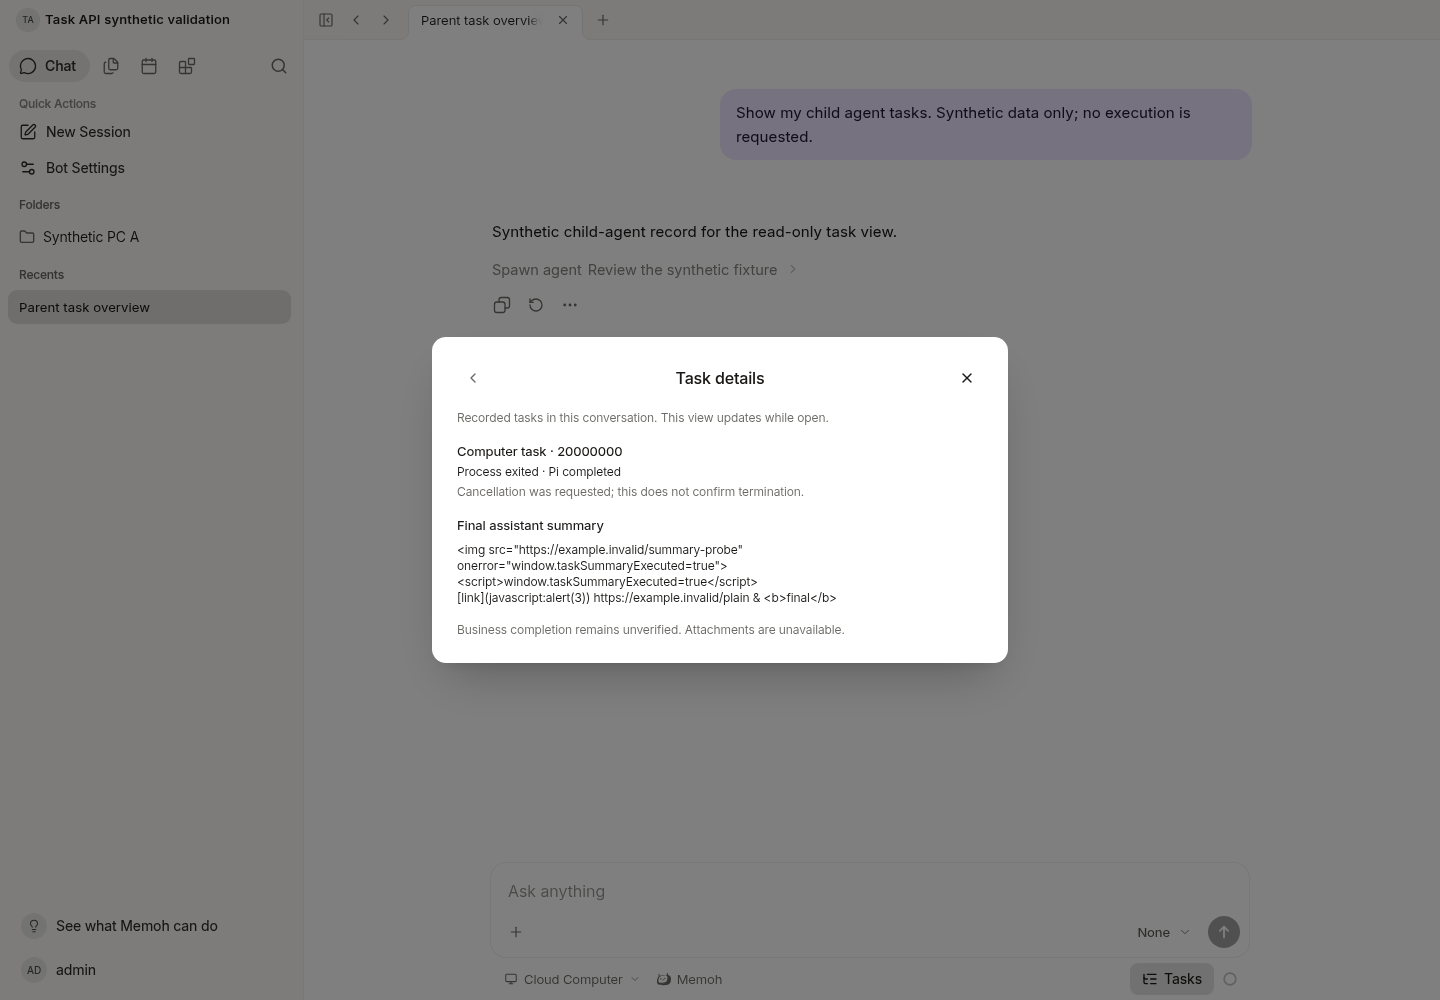
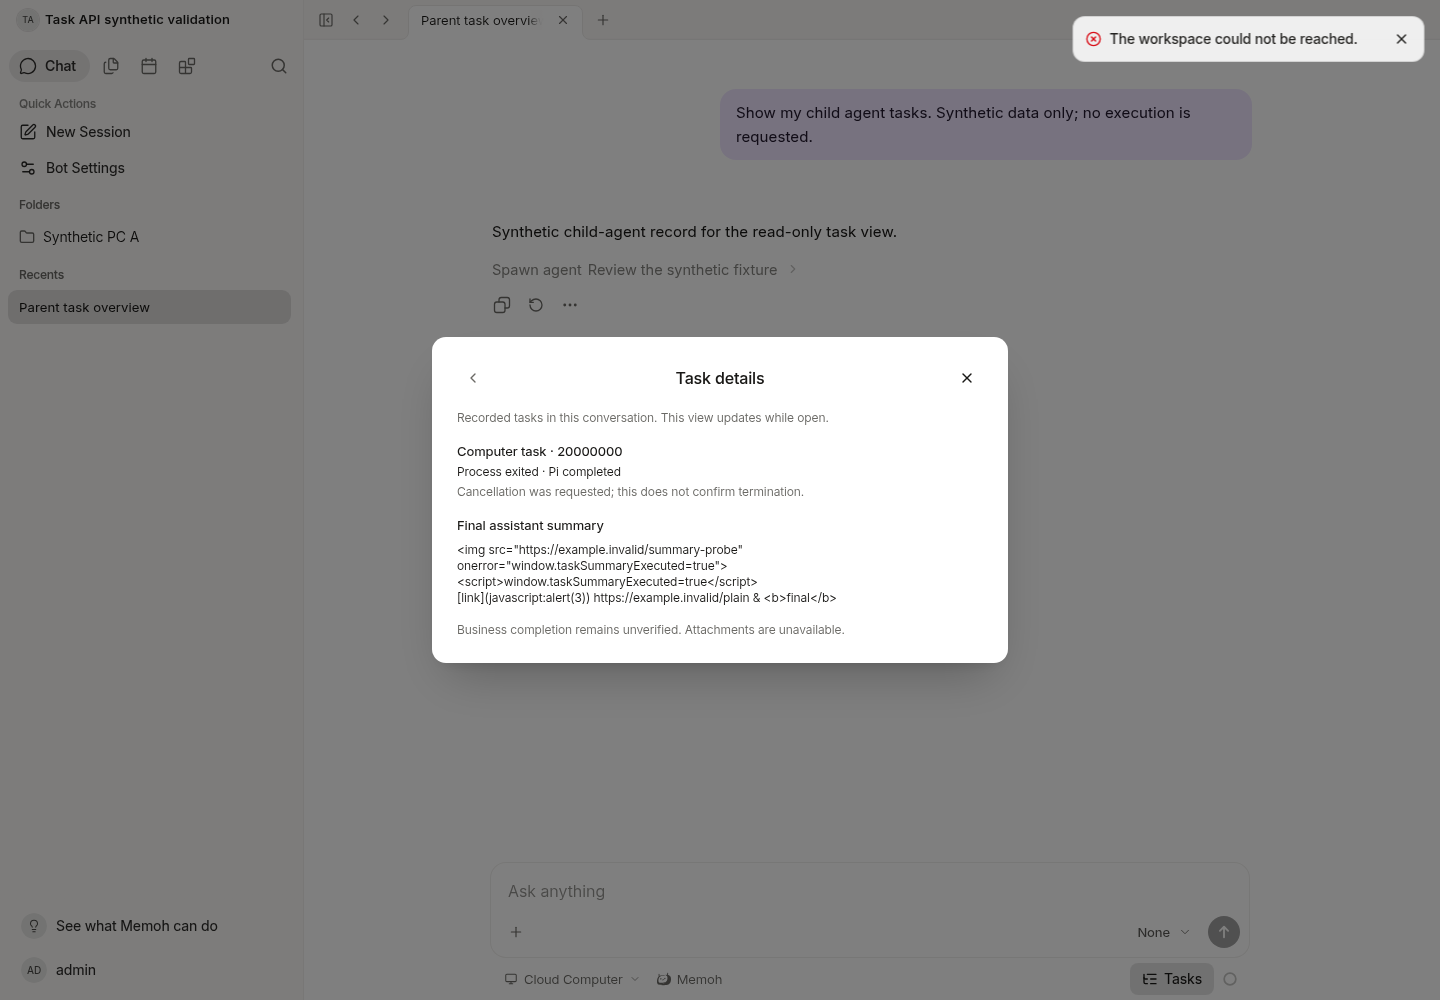
docs: record combined task OAuth and range validation

Changed region(s): [[0.7188, 0.0, 1.0, 0.062]]

diff --git a/docs/validation/session-task-results/README.md b/docs/validation/session-task-results/README.md
@@ -1,7 +1,7 @@
 # Persisted task result observation
 
 Dependency: compact-result #12, integrated through
-`31e44e637855867a085ac3dccc8df5f18e4503d5`, on main
+`828a35ec8d7e634495915c358f1972c7beaca56a`, on main
 `75a70fe961808ed5ec2284767cb92ea85f30890f` (#11). The initial review/mobile
 checkpoint `20d91381cc107eb917debf4ce6b89c14c5370401` remains in history.
 Merge `44d3a241b50f594079958b06370a50cfc22fe4ec` adds the dependency's
@@ -153,7 +153,7 @@ Mobile implementation is outside this PR.
   production credential repair, new task submission or deployment here.
 - Official Agent runtime/contextview boundary remains zero diff.
 
-## Current #12 integration (2026-10-22 UTC, `31e44e63`)
+## Prior #12 integration (2026-10-22 UTC, `31e44e63`)
 
 - Preserved `a0c1c938` and merged the exact fixed dependency on the same branch.
   This includes the unknown-operation/preflight regression and current OAuth
@@ -193,6 +193,58 @@ Mobile implementation is outside this PR.
 - This checkpoint is for integration review and ordinary PR CI only. No new
   candidate workflow was dispatched; the earlier `a0c1c938` candidate remains
   separate. No merge into main, promotion or deployment was performed.
+
+## Combined OAuth and verified Range integration (2026-10-22 UTC)
+
+- Preserved `fbad9a74` and integrated #12 `828a35ec` with merge `26bf2fd4`,
+  then #21 `8b5db5a7` with merge `0d38a587`. Both merges were conflict-free.
+  The Range storage/media/HTTP implementation is identical to #21; OAuth
+  differs from #12 only by the three previously reviewed `bot_id` annotations.
+  No rewrite or routing architecture was added. Main remains unchanged.
+- Both task paths and all three task definitions still equal `20d91381`.
+  Task API docs, generated SDK, projection, Web component/composable and
+  identity/late-response guards are unchanged from `fbad9a74`. No migration,
+  operation write-path, parser or official Agent core change was introduced.
+- Go race passed for localfs, fallback, media, sessiontask and server, plus
+  handler tests matching `Test(SessionTask|MCPOAuth|Media)`. These cover real
+  JWT/Problem middleware, task permissions/revocation/no-dispatch, OAuth
+  rejection/cache boundaries and warm media authorization. Affected Go lint
+  passed. PostgreSQL owned-tree/stable-cursor integration passed.
+- All 173 frontend tests passed again; SDK typecheck and UI guard passed
+  (3 existing UI warnings). Frontend source and generated types did not change;
+  the previous full Web typecheck result remains **442 existing errors**.
+  This integration does not claim a green full Web typecheck.
+- Rebuilt/restarted the native development Server and verified direct/proxy
+  login and readiness. All 33 actual task HTTP checks passed: outcomes, scope,
+  cursor, revocation, no-store and unchanged operation ledger digests.
+- Before and after a further process restart, 18 OAuth HTTP checks each passed:
+  anonymous 401 on status/discover/authorize/unknown, authenticated status 200,
+  denied Bot/unknown-route 404, method 405, both callback prefixes 400/405/404,
+  and unchanged neighboring-path cache policy. These are synthetic development
+  requests, not a production OAuth authorization or credential-repair result.
+- Eight media HTTP checks each passed before/after restart: cross-block/suffix
+  206, If-Range mismatch/full 200, unsatisfiable 416, anonymous 401, HEAD, a
+  client disconnect and resumed download whose complete SHA-256 matches the
+  uploaded synthetic original. Operation ledger digests remained unchanged.
+- The isolated 200/512 MiB read-volume test passed: 64 KiB warm responses read
+  approximately 1 MiB; first/new-provider reads additionally scan the complete
+  original. Measurements are own-process Linux read syscall bytes, not physical
+  disk I/O, separate Server process accounting or NAS performance. Warm checks
+  validate requested blocks; they do not scrub untouched blocks. Cold full
+  verification, canonical originals and fallback integrity behavior remain.
+- Chromium repeated actual task list/detail/back/unknown, Chinese dark 480px,
+  grant revocation, literal adversarial markup and delayed-auth-response
+  checks. Zero page errors, active summary elements, external probe requests or
+  task GET writes. Current screenshots were inspected. Synthetic detail/grant
+  mutations were restored; no PC, model or chat execution was submitted.
+- Browser attachment selection and an authenticated cross-block Range request
+  through the Vite proxy passed. The selected file was not sent as a message.
+  [Combined attachment preview](combined-range-selected.png) shows this UI
+  state; its HTTP byte check is separate from the screenshot.
+- Candidate publication is handled separately after this fixed tree's ordinary
+  CI succeeds. No merge into main, promotion or production deployment is part
+  of this verification. The combined candidate still needs production HTTP
+  acceptance. Task attachments, cancel and retry remain unavailable.
 
 All fixtures and screenshots are synthetic. No real model, Pi or Windows task
 was launched. The occasional workspace-unreachable toast belongs to the
